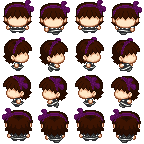
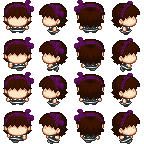
Working on NPCs.
- Made the NPC object more useful...
- Stole a lot of the code from Rachel.
- So now Rachel inherits from NPC.
- Added Jessica, a new NPC built on this work. She uses sprite compositions,
  like Rachel. Hooray! They can both blink their eyes!
- Jessica only says hello, as a placeholder...
- Modified Rachel's sprite sheet to reflect the standard format that Radomir
  Dopieralski uses (He's the author of these sprites that I'm using).
- Had to add a simple wrapper around me.loader.getImage() to throw when the
  image is not available. That will help with mistakes. :|

diff --git a/js/entities/rachel.js b/js/entities/rachel.js
@@ -1,14 +1,7 @@
-/* Player character */
-game.RachelEntity = game.Sprite.extend({
-    // Direction facing
+/* Rachel */
+game.RachelEntity = game.NPC.extend({
+    // Keep track of the last direction key pressed.
     dir : c.RESET_DIR,
-    dir_name : "down",
-
-    // Re-render when true
-    isDirty : false,
-
-    // Standing or walking?
-    standing : true,
 
     // Keys being held: [ "left", "up", "right", "down" ]
     held : [ false, false, false, false ],
@@ -24,6 +17,9 @@ game.RachelEntity = game.Sprite.extend({
         // Adjust collision bounding box.
         this.adjustBoxShape(-1, 10, 15, 20);
 
+        // Rachel's mass is always 1.
+        this.body.setMass(1);
+
         // Register Chipmunk collision handlers.
         this.body.eachShape(function eachShape(shape) {
             shape.collision_type = c.COLLIDE_PLAYER;
@@ -34,17 +30,6 @@ game.RachelEntity = game.Sprite.extend({
             c.COLLIDE_COLLECTIBLE,
             this.collect
         );
-
-        // Set animations.
-        this.addAnimation("walk_down",   [ 0,  1,  2,  3 ]);
-        this.addAnimation("walk_right",  [ 4,  5,  6,  7 ]);
-        this.addAnimation("walk_left",   [ 8,  9,  10, 11 ]);
-        this.addAnimation("walk_up",     [ 12, 13, 14, 15 ]);
-        this.addAnimation("stand_down",  [ 0 ]);
-        this.addAnimation("stand_right", [ 4 ]);
-        this.addAnimation("stand_left",  [ 8 ]);
-        this.addAnimation("stand_up",    [ 12 ]);
-        this.setCurrentAnimation("stand_down");
 
         // Set the display to follow our position on both axis.
         me.game.viewport.follow(this.pos, me.game.viewport.AXIS.BOTH);
@@ -77,6 +62,20 @@ game.RachelEntity = game.Sprite.extend({
         // Returning false tells Chipmunk to stop processing this collision.
         // That means the object will not act as a wall!
         return false;
+    },
+
+    interactionCallback : function interactionCallback(data) {
+        console.log(data);
+
+        // DEBUG
+        if (data.indexOf("still") >= 0) {
+            game.state.loadLevel({
+                to          : "rachels_room",
+                music       : "bells",
+                fade        : "black",
+                duration    : 250
+            });
+        }
     },
 
     checkMovement : function checkMovement() {
@@ -136,7 +135,7 @@ game.RachelEntity = game.Sprite.extend({
             self.last_held[i] = self.held[i];
         });
 
-        // Move entity and detect collisions.
+        // Move body and detect collisions.
         self.body.applyForce(cp.v(force.x * 600, force.y * -600), cp.vzero);
 
         if (~~self.body.vy !== 0) {
@@ -148,20 +147,6 @@ game.RachelEntity = game.Sprite.extend({
         if (!self.isDirty && !self.standing) {
             // Force standing animation.
             self.stand();
-        }
-    },
-
-    interactionCallback : function interactionCallback(data) {
-        console.log(data);
-
-        // DEBUG
-        if (data.indexOf("still") >= 0) {
-            game.state.loadLevel({
-                to          : "rachels_room",
-                music       : "bells",
-                fade        : "black",
-                duration    : 250
-            });
         }
     },
 
@@ -188,28 +173,5 @@ game.RachelEntity = game.Sprite.extend({
                 me.game.getEntityByGUID(shape.data.GUID).interact(self.interactionCallback);
             });
         }
-    },
-
-    stand : function stand() {
-        // Force standing animation.
-        this.isDirty = true;
-        this.standing = true;
-        this.setCurrentAnimation("stand_" + this.dir_name);
-    },
-
-    update : function update() {
-        var self = this;
-
-        self.isDirty = false;
-        self.body.resetForces();
-        if (!game.modal) {
-            self.checkMovement();
-            self.checkInteraction();
-        }
-        else if (!self.standing) {
-            this.stand();
-        }
-
-        return self.parent() || self.isDirty;
     }
 });

diff --git a/js/objects/npc.js b/js/objects/npc.js
@@ -1,7 +1,19 @@
 /* NPCs */
 game.NPC = game.Sprite.extend({
+    // Direction facing.
+    dir_name : "down",
+
+    // Re-render when true.
+    isDirty : false,
+
+    // Standing or walking?
+    standing : true,
+
     init : function init(x, y, settings) {
         this.parent(x, y, settings);
+
+        // Adjust collision bounding box.
+        //this.adjustBoxShape(-1, 10, 15, 20); // FIXME
 
         this.body.eachShape(function eachShape(shape) {
             shape.setLayers(c.LAYER_SPRITE | c.LAYER_INTERACTIVE | c.LAYER_WALL);
@@ -12,5 +24,49 @@ game.NPC = game.Sprite.extend({
         // special case in a collision handler, such that Player<->Sprite
         // collisions do not cause them to push one another.
         this.body.setMass(3);
+
+        // Set animations.
+        this.addAnimation("walk_down",   [ 0, 4,  8, 12 ]);
+        this.addAnimation("walk_left",   [ 1, 5,  9, 13 ]);
+        this.addAnimation("walk_up",     [ 2, 6, 10, 14 ]);
+        this.addAnimation("walk_right",  [ 3, 7, 11, 15 ]);
+
+        this.addAnimation("stand_down",  [ 0 ]);
+        this.addAnimation("stand_left",  [ 1 ]);
+        this.addAnimation("stand_up",    [ 2 ]);
+        this.addAnimation("stand_right", [ 3 ]);
+
+        this.setCurrentAnimation("stand_down");
+    },
+
+    stand : function stand() {
+        // Force standing animation.
+        this.isDirty = true;
+        this.standing = true;
+        this.setCurrentAnimation("stand_" + this.dir_name);
+    },
+
+    checkMovement : function checkMovement() {
+        // TODO: NPC AI.
+    },
+
+    checkInteraction : function checkInteraction() {
+        // TODO: NPC AI.
+    },
+
+    update : function update() {
+        var self = this;
+
+        self.isDirty = false;
+        self.body.resetForces();
+        if (!game.modal) {
+            self.checkMovement();
+            self.checkInteraction();
+        }
+        else if (!self.standing) {
+            this.stand();
+        }
+
+        return self.parent() || self.isDirty;
     }
 });

diff --git a/js/game.js b/js/game.js
@@ -95,6 +95,7 @@ var game = {
 
         // NPCs.
         me.entityPool.add("mum", game.NPCEntities.Mum);
+        me.entityPool.add("jessica", game.NPCEntities.Jessica);
 
         // Collectibles.
         me.entityPool.add("coin_gold", game.CoinEntity);
@@ -125,6 +126,15 @@ var game = {
     sort : function sort(a, b) {
         var result = (b.z - a.z);
         return (result ? result : ((b.pos && b.pos.y) - (a.pos && a.pos.y)) || 0);
+    },
+
+    // Helper function to get an image with error checking.
+    getImage : function getImage(name) {
+        var result = me.loader.getImage(name);
+        if (!result) {
+            throw "Error: No image named `" + name + "` (Did you forget to include the resource?)";
+        }
+        return result;
     },
 
     // Simple quests make the game interesting!

diff --git a/js/objects/eyes.js b/js/objects/eyes.js
@@ -1,8 +1,9 @@
 /* Eyes ... that blink! */
 game.BlinkingEyes = me.AnimationSheet.extend({
-    init : function init(x, y, image, w, h, owner) {
+    init : function init(x, y, image, w, h, owner, settings) {
         this.parent(x, y, image, w, h);
 
+        this.settings = settings;
         this.owner = owner;
         this.updatePosition();
 
@@ -20,8 +21,8 @@ game.BlinkingEyes = me.AnimationSheet.extend({
     },
 
     updatePosition : function updatePosition() {
-        this.pos.x = this.owner.pos.x + 9;
-        this.pos.y = this.owner.pos.y + 18 + (this.owner.current.idx % 2);
+        this.pos.x = this.owner.pos.x + this.settings.offsetx;
+        this.pos.y = this.owner.pos.y + this.settings.offsety + (this.owner.current.idx % 2);
     },
 
     update : function update() {

diff --git a/js/objects/sprite.js b/js/objects/sprite.js
@@ -17,7 +17,7 @@ game.Chipmunk = me.AnimationSheet.extend({
         this.parent(
             x,
             y,
-            (typeof(settings.image) === "string") ? me.loader.getImage(settings.image) : settings.image,
+            (typeof(settings.image) === "string") ? game.getImage(settings.image) : settings.image,
             settings.spritewidth,
             settings.spriteheight
         );
@@ -141,7 +141,7 @@ game.Sprite = game.Chipmunk.extend({
                 self.children[item.name] = new (getClass(item.class))(
                     x,
                     y,
-                    me.loader.getImage(item.image),
+                    game.getImage(item.image),
                     item.spritewidth,
                     item.spriteheight,
                     self,

diff --git a/js/objects/gui.js b/js/objects/gui.js
@@ -40,7 +40,7 @@ game.HUD = function HUD() {
             this.silver_font.bold();
 
             // Animated coin image.
-            this.image = new me.AnimationSheet(0, 0, me.loader.getImage("coin_gold"), 18, 21);
+            this.image = new me.AnimationSheet(0, 0, game.getImage("coin_gold"), 18, 21);
             this.image.animationspeed = 4;
 
             function bufferForFont(context, font) {
@@ -157,7 +157,7 @@ game.HUD = function HUD() {
             self.parent(x, y, value);
             self.hearts = [];
             [ "heart_empty", "heart_half", "heart_full" ].forEach(function forEach(value, i) {
-                self.hearts[i] = me.loader.getImage(value);
+                self.hearts[i] = game.getImage(value);
             });
         },
 

diff --git a/js/entities/npc.js b/js/entities/npc.js
@@ -1,4 +1,5 @@
 game.NPCEntities = {
+    /* Mum */
     Mum : game.NPC.extend({
         quest_started : false,
         quest_complete : false,
@@ -51,6 +52,20 @@ game.NPCEntities = {
                     "Mum: You should try the chest on the right."
                 ]);
             }
+        }
+    }),
+
+
+    /* Jessica */
+    Jessica : game.NPC.extend({
+        init : function init(x, y, settings) {
+            this.parent(x, y, settings);
+        },
+
+        interact : function interact() {
+            game.dialog([
+                "Jessica: Hellooooo!"
+            ]);
         }
     })
 };

diff --git a/js/objects/static.js b/js/objects/static.js
@@ -2,7 +2,7 @@
 // Implemented as a sprite because it follows the rules of Y-coordinate priority.
 game.Static = me.SpriteObject.extend({
     init : function init(x, y, settings) {
-        var image = me.loader.getImage(settings.image);
+        var image = game.getImage(settings.image);
 
         this.parent(x, y, image, settings.spritewidth, settings.spriteheight);
 

diff --git a/js/objects/dialog.js b/js/objects/dialog.js
@@ -1,6 +1,6 @@
 /* Dialog box */
 game.dialog = function dialog(script, callback) {
-    var background = me.loader.getImage("dialog");
+    var background = game.getImage("dialog");
     var font = new me.Font("Tahoma", 18, "#eee");
 
     game.modal = true;

diff --git a/js/resources.js b/js/resources.js
@@ -10,6 +10,8 @@ game.resources = {
         // Characters
         "rachel",
         "rachel_eyes",
+        "jessica",
+        "jessica_eyes",
         "char_shadow",
         "mum",
 
